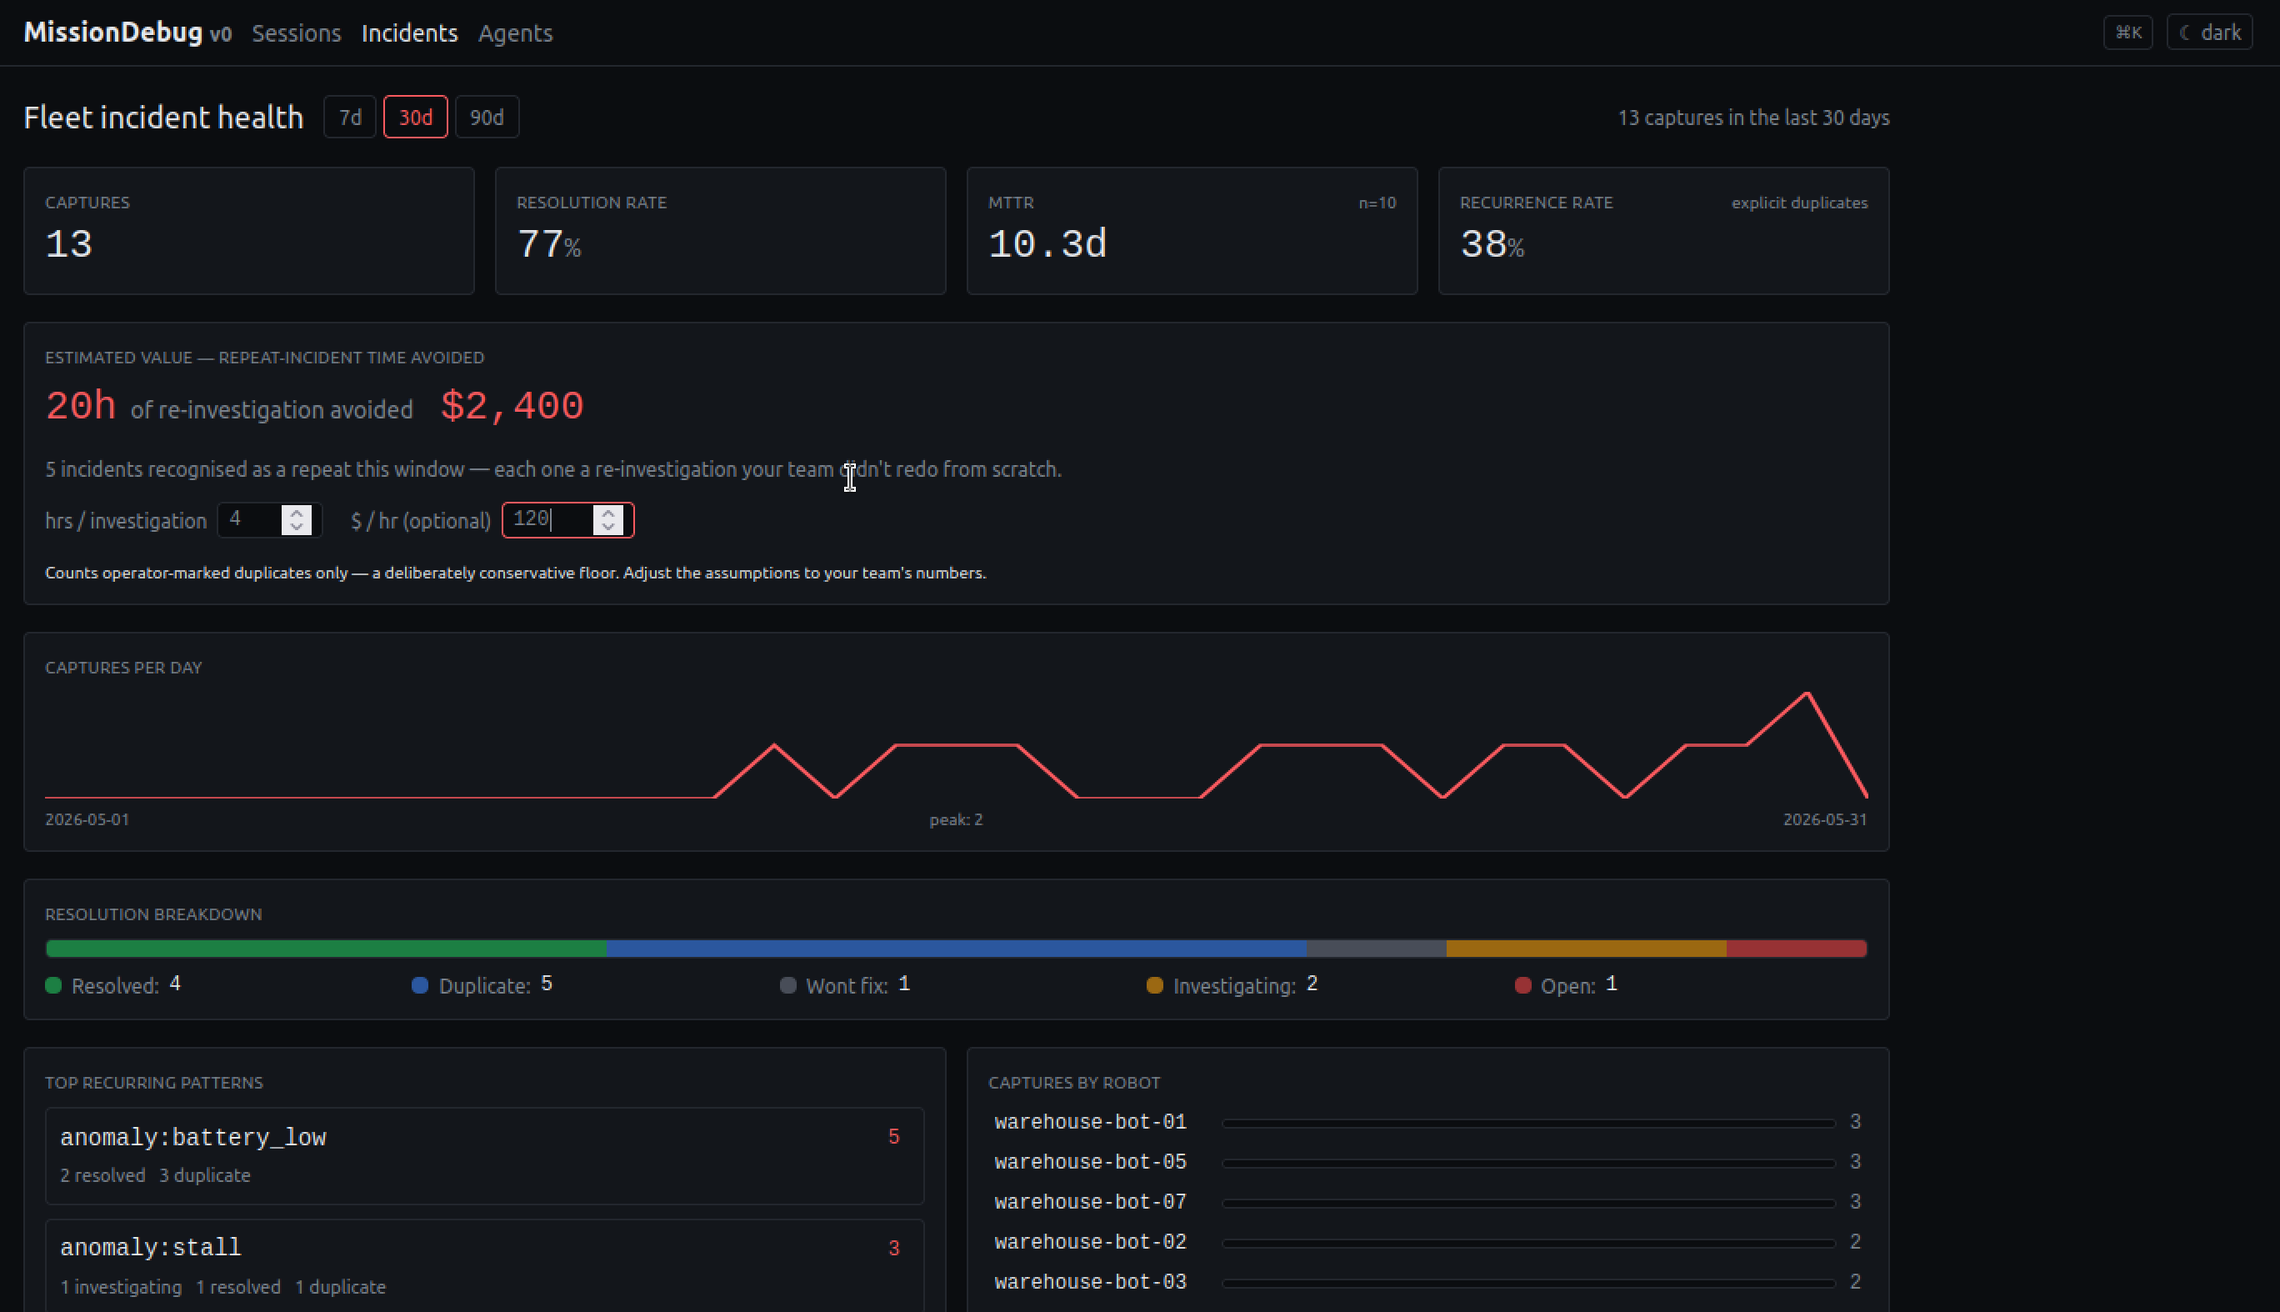
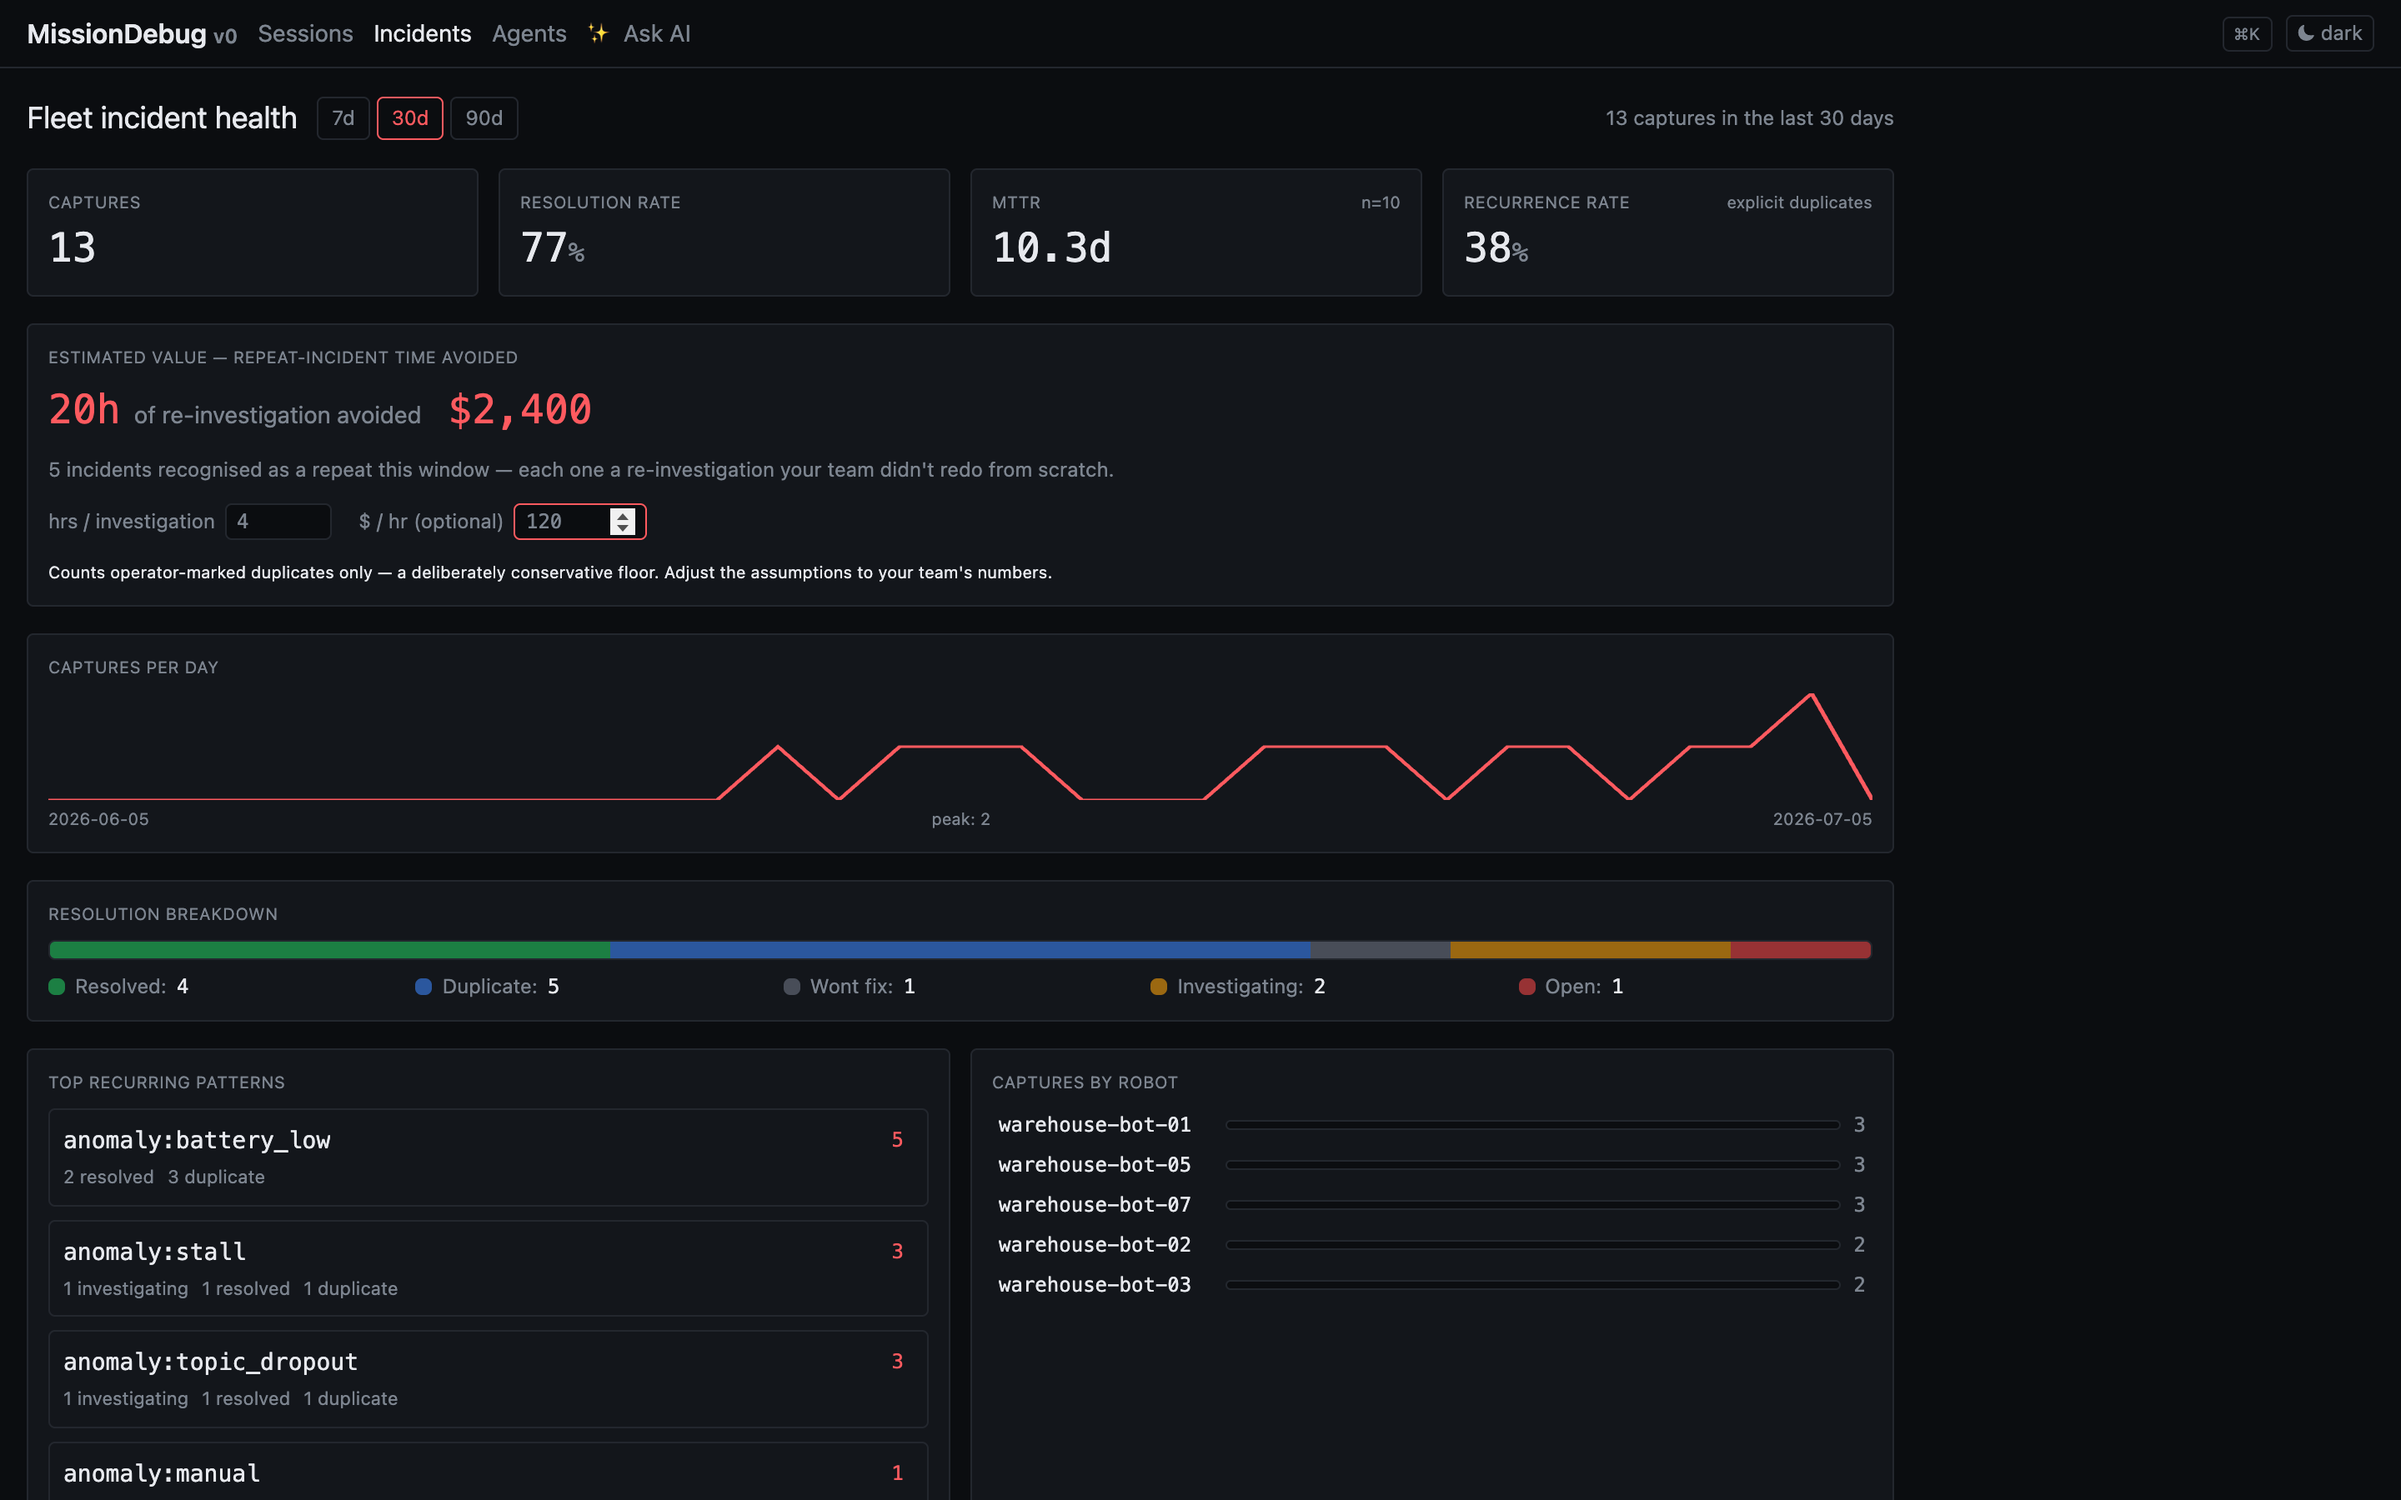
docs: retake all screenshots on the current UI, add ask + topics shots
The three existing shots predated weeks of UI (old nav, no Ask AI tab)
and screenshot-list.png actually showed a detail page under a 'Session
list' caption. All retaken against a freshly seeded hub with the demo
corpus: incidents dashboard (value tile in dollars), the actual session
list (labeled filter rail, summaries), sample_drive replay at t=12
(cameras, pose, timeline playhead, inspector).

Two new: screenshot-ask.png — a real grounded answer with session
citations (shot against a live LLM-enabled hub) — wired into the README
hero; screenshot-topics.png — the topics panel expanded (categories,
pre-checks, badges) — wired into HUB.md's verify section.

diff --git a/README.md b/README.md
@@ -16,6 +16,8 @@ And you can **ask the whole history in plain English** (*"why does warehouse-bot
 
 ![Fleet incident dashboard: recurrence rate, MTTR, estimated re-investigation time avoided, top recurring patterns, captures per robot](docs/screenshot-incidents.png)
 
+![Ask AI: a plain-English question over the incident history, answered with the sessions it used as clickable citations](docs/screenshot-ask.png)
+
 Under the hood it's a focused capture layer: an agent runs alongside your ROS 2 stack, keeps a rolling buffer of the topics you care about, and writes a standard MCAP the moment a detector fires: stall (commanded-but-not-moving, so a parked robot never false-fires), path deviation, low battery, topic dropout, a cross-topic comparison rule, or any threshold rule you write in YAML. The recording path runs in native code, so it stays light on the robot even with high-rate topics like camera and lidar, which matters on compute-constrained hardware like Jetson. Open the web UI, click a session, scrub the timeline. Annotate the moment, share a deep-linked URL with a teammate.
 
 **Works on any ROS 2 robot:** warehouse AMRs, drones (mavros), manipulators (MoveIt2), agriculture, defense. The agent is topic-agnostic; the warehouse AGV is just the running example. The replay renders camera, pose, velocity, **per-joint** (manipulators), and auto scalar charts from whatever topics you capture. See [`examples/`](./examples/) for ready-to-edit configs per robot type.
@@ -65,7 +67,7 @@ Most ROS debugging tools assume you knew to start recording. MissionDebug always
 
 > Sessions auto-save when a detector fires; the label tells you why. Click one to scrub the timeline.
 
-![Session detail: chart + pose track + annotation at the playhead](docs/screenshot-detail.png)
+![Session detail: synchronized camera replay, pose, timeline with playhead, and a message inspector](docs/screenshot-detail.png)
 
 ---
 

diff --git a/docs/HUB.md b/docs/HUB.md
@@ -107,6 +107,8 @@ the robot's row automatically. Trigger a test capture
 (`curl -X POST http://<robot>:7000/sessions/save`) and it lands at the top
 of the Sessions page.
 
+![The Agents page with a robot's topics panel expanded: live ROS topics grouped by category, capture pre-checks, and badges for topics that can't capture](screenshot-topics.png)
+
 ## 6. Protect the hub (fleet mode)
 
 A hub that aggregates a fleet should require a password. Set two
